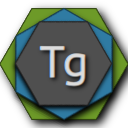
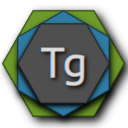
Update appIcons. Add padding

diff --git a/TermGraph/source/qml/Molecules/AppIcon.qml b/TermGraph/source/qml/Molecules/AppIcon.qml
@@ -1,91 +1,102 @@
 import QtQuick 2.13
 import QtQuick.Window 2.13
+import QtQuick.Controls 2.13
 import QtGraphicalEffects 1.13
 
 import "../Js/Colors.js" as Colors
 import "../Atoms" as A
 
 Item {
-    id: root
+    id: padding
 
-    width: 200
-    height: 200
+    property int size: 200
 
-    property color col1: "#6d9a28"
-    property color col2: Colors.accent
-    property color col3: Colors.baseLight
-    property color colText: "#dcdcdc"
+    width: size
+    height: size
 
-    A.Hex {
-        id: hex1
+    Item {
+        id: root
+
+        width: padding.size * 0.95
+        height: padding.size * 0.95
         anchors.centerIn: parent
-        width: root.width
-        height: root.height
-        color: root.col1
-    }
 
-    DropShadow {
-        anchors.fill: hex1
-        source: hex1
-        verticalOffset: 4
-        horizontalOffset: 4
-        radius: 12.0
-        samples: 20
-    }
+        property color col1: "#6d9a28"
+        property color col2: Colors.accent
+        property color col3: Colors.baseLight
+        property color colText: "#dcdcdc"
 
-    A.Hex {
-        id: hex2
-        anchors.centerIn: parent
-        width: parent.width * 0.866
-        height: parent.height * 0.866
-        color: root.col2
-        rotation: 30
-    }
+        A.Hex {
+            id: hex1
+            anchors.centerIn: parent
+            width: root.width
+            height: root.height
+            color: root.col1
+        }
 
-    DropShadow {
-        anchors.fill: hex2
-        source: hex2
-        verticalOffset: 3
-        horizontalOffset: 3
-        radius: 10.0
-        samples: 20
-        rotation: 30
-    }
+        DropShadow {
+            anchors.fill: hex1
+            source: hex1
+            verticalOffset: 4
+            horizontalOffset: 4
+            radius: 12.0
+            samples: 20
+        }
 
-    A.Hex {
-        id: hex3
-        anchors.centerIn: parent
-        width: parent.width * Math.pow(0.866, 2)
-        height: parent.height * Math.pow(0.866, 2)
-        color: root.col3
-        rotation: 60
-    }
+        A.Hex {
+            id: hex2
+            anchors.centerIn: parent
+            width: parent.width * 0.866
+            height: parent.height * 0.866
+            color: root.col2
+            rotation: 30
+        }
 
-    DropShadow {
-        anchors.fill: hex3
-        source: hex3
-        verticalOffset: 2
-        horizontalOffset: 2
-        radius: 8.0
-        samples: 20
-        rotation: 60
-    }
+        DropShadow {
+            anchors.fill: hex2
+            source: hex2
+            verticalOffset: 3
+            horizontalOffset: 3
+            radius: 10.0
+            samples: 20
+            rotation: 30
+        }
 
-    Text {
-        id: text
-        anchors.centerIn: parent
-        anchors.verticalCenterOffset: -root.height * 0.02
-        text: "Tg"
-        font.pixelSize: root.height * 0.35
-        color: root.colText
-    }
+        A.Hex {
+            id: hex3
+            anchors.centerIn: parent
+            width: parent.width * Math.pow(0.866, 2)
+            height: parent.height * Math.pow(0.866, 2)
+            color: root.col3
+            rotation: 60
+        }
 
-    DropShadow {
-        anchors.fill: text
-        source: text
-        verticalOffset: 2
-        horizontalOffset: 2
-        radius: 8.0
-        samples: 20
+        DropShadow {
+            anchors.fill: hex3
+            source: hex3
+            verticalOffset: 2
+            horizontalOffset: 2
+            radius: 8.0
+            samples: 20
+            rotation: 60
+        }
+
+        Text {
+            id: text
+            anchors.centerIn: parent
+            anchors.verticalCenterOffset: -root.height * 0.02
+            text: "Tg"
+            font.pixelSize: root.height * 0.35
+            color: root.colText
+        }
+
+        DropShadow {
+            anchors.fill: text
+            source: text
+            verticalOffset: 2
+            horizontalOffset: 2
+            radius: 8.0
+            samples: 20
+        }
     }
 }

diff --git a/TermGraph/source/qml/Pages/AppIconsSaving.qml b/TermGraph/source/qml/Pages/AppIconsSaving.qml
@@ -1,0 +1,60 @@
+/*
+ *  TermGraph, build graph of knowledge.
+ *  Copyright © 2016-2019. Savenkov Igor. All rights reserved
+ *  Contacts: dev.savenkovigor@protonmail.com
+ *
+ *  This file is part of TermGraph.
+ *
+ *  TermGraph is free software: you can redistribute it and/or modify
+ *  it under the terms of the GNU General Public License as published by
+ *  the Free Software Foundation, either version 3 of the License, or
+ *  (at your option) any later version.
+ *
+ *  TermGraph is distributed in the hope that it will be useful,
+ *  but WITHOUT ANY WARRANTY; without even the implied warranty of
+ *  MERCHANTABILITY or FITNESS FOR A PARTICULAR PURPOSE. See the
+ *  GNU General Public License for more details.
+ *
+ *  You should have received a copy of the GNU General Public License
+ *  along with TermGraph. If not, see <https://www.gnu.org/licenses/>.
+ */
+
+import QtQuick 2.13
+import QtQuick.Controls 2.13
+
+import "../Molecules" as M
+
+M.Page {
+
+    readonly property int s1: 128
+    readonly property int s2: 256
+    readonly property int s3: 512
+
+    contentItem: ScrollView {
+        Column {
+            Button {
+                text: "Сохранить иконки"
+                onClicked: {
+                    saveIcon(icon1);
+                    saveIcon(icon2);
+                    saveIcon(icon3);
+                }
+
+                function saveIcon(icon) {
+                    icon.grabToImage(function(result){
+                        const name = "appIcon" + icon.width + "x" + icon.height + ".png";
+                        if (result.saveToFile(name)) {
+                            print(name, "save success");
+                        } else {
+                            print(name, "save fail");
+                        }
+                    });
+                }
+            }
+
+            M.AppIcon { id: icon1; size: s1; }
+            M.AppIcon { id: icon2; size: s2; }
+            M.AppIcon { id: icon3; size: s3; }
+        }
+    }
+}
